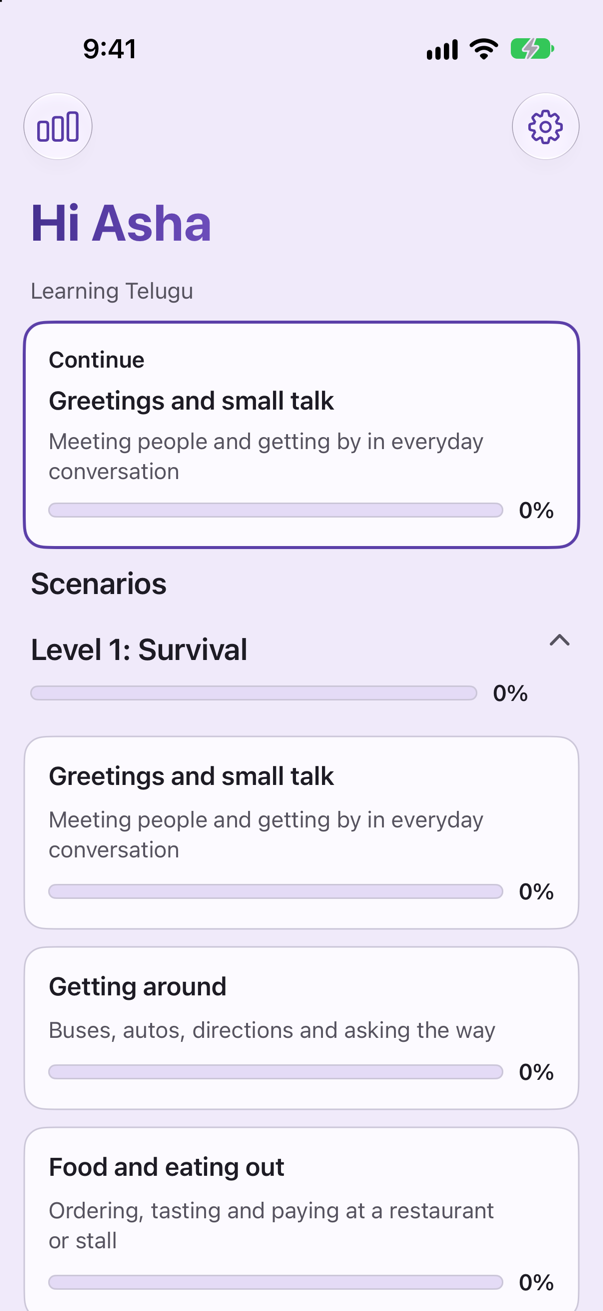
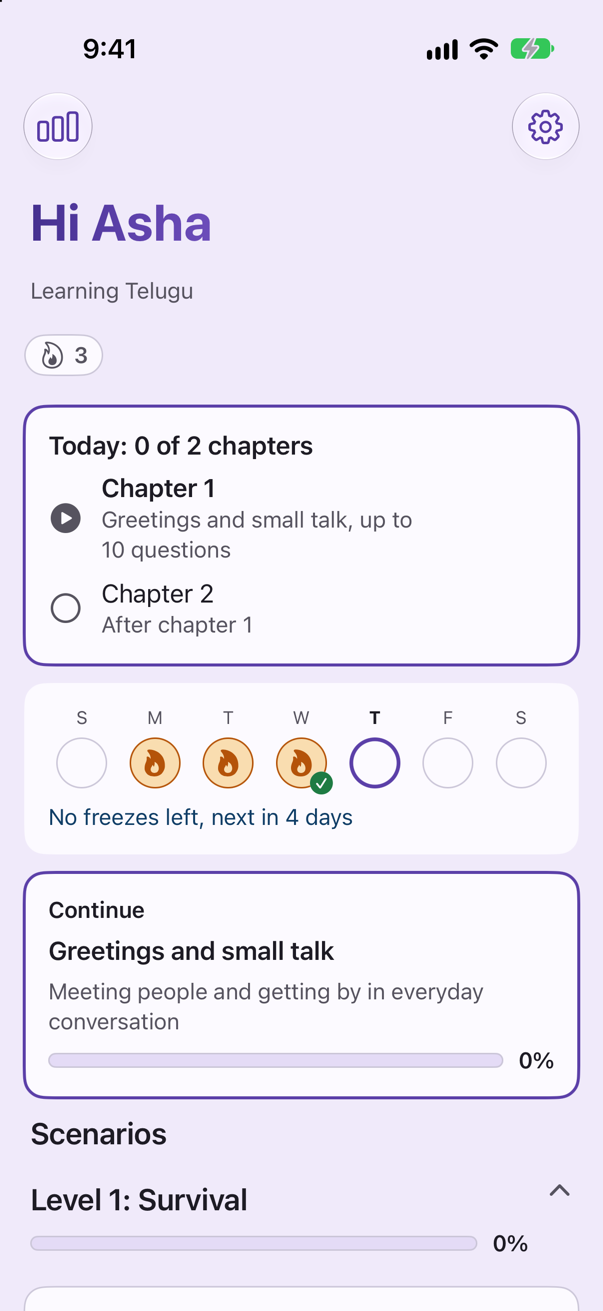
Docs: README shows daily practice; CHANGELOG with versions; rule to keep GitHub current (#44)
New screenshots from the current build (streak, Today card, streak screen, Daily practice settings, reminder prompt, Telugu Home with its own streak). README module, storage and roadmap text cover daily practice. CHANGELOG.md records v0.1.0 to v0.4.1. CLAUDE.md gets a 'Keep GitHub current' rule.

diff --git a/README.md b/README.md
@@ -7,19 +7,24 @@
 <p>
   <img src="docs/images/intro.png" width="200" alt="Intro screen: blt.ai, learn the Tamil / Telugu people actually speak">
   <img src="docs/images/language.png" width="200" alt="Language step: choose Tamil or Telugu, changeable later in Settings">
-  <img src="docs/images/home.png" width="200" alt="Home screen for the Tamil course: a continue card and Level 1 lessons with completion bars">
+  <img src="docs/images/home.png" width="200" alt="Home for the Tamil course: a 7 day streak flame, the Today card with two chapters, the week strip with a freeze left, and the lessons by level">
   <img src="docs/images/question.png" width="200" alt="Question screen: an English prompt and four romanised Tamil options">
 </p>
 <p>
   <img src="docs/images/feedback.png" width="200" alt="Feedback screen: the correct phrase with a word-by-word gloss and a note on who to say it to">
-  <img src="docs/images/home-telugu.png" width="200" alt="Home screen for the Telugu course, with its own progress">
+  <img src="docs/images/streak.png" width="200" alt="Streak screen: the day count, a practise-by deadline, longest streak, freezes, daily goal days and a month calendar">
+  <img src="docs/images/settings-daily.png" width="200" alt="Settings: the Daily practice section with the reminders switch, quiet hours and the daily goal of two chapters">
+  <img src="docs/images/reminder-prompt.png" width="200" alt="The reminder prompt: a gentle reminder before the streak lapses, at most two notifications, never in quiet hours">
+</p>
+<p>
+  <img src="docs/images/home-telugu.png" width="200" alt="Home for the Telugu course, with its own 3 day streak and no freezes left">
   <img src="docs/images/question-telugu.png" width="200" alt="Question screen in the Telugu course, with an Unreviewed draft label">
   <img src="docs/images/settings-switch.png" width="200" alt="Settings: switching language asks first and keeps each language's progress">
 </p>
 
 This is a portfolio project. It runs on a simulator or your own iPhone; it is not on the App Store.
 
-> **Where it stands.** The two-course app is built: language choice, Home grouped by level, per-language progress, lesson import, and the final-exam screen. Levels 1 and 2 are drafted for both courses (480 phrases each). Only the first 100 Tamil phrases have been checked by a native speaker; the rest, and all of Telugu, are labelled "Unreviewed draft" in the app until the native reviewers check them. The remaining six levels, each course's exam paper, and the review passes are still ahead: see [Roadmap](#roadmap), [`plan.md`](plan.md) and [`docs/COURSE_SYLLABUS.md`](docs/COURSE_SYLLABUS.md). The screenshots are from the current build.
+> **Where it stands.** The two-course app is built: language choice, Home grouped by level, per-language progress, lesson import, daily practice (streaks, freezes and local reminders) and the final-exam screen. Levels 1 and 2 are drafted for both courses (480 phrases each). Only the first 100 Tamil phrases have been checked by a native speaker; the rest, and all of Telugu, are labelled "Unreviewed draft" in the app until the native reviewers check them. The remaining six levels, each course's exam paper, and the review passes are still ahead: see [Roadmap](#roadmap), [`plan.md`](plan.md) and [`docs/COURSE_SYLLABUS.md`](docs/COURSE_SYLLABUS.md). The screenshots are from the current build; what changed in each version is in [`CHANGELOG.md`](CHANGELOG.md).
 
 ## Who it is for
 
@@ -54,10 +59,14 @@ Two courses, each with Levels 1 and 2 (24 lessons, 480 phrases), and everything 
 - **Spaced repetition.** An SM-2 scheduler decides what comes back and when. A wrong answer is due again immediately, and a phrase counts as complete only when your latest answer was correct.
 - **Shuffled sessions.** Each session samples up to ten phrases and shuffles questions and options, so you cannot pass by remembering positions.
 - **Never red.** Mistakes are shown in a neutral tone. The app is meant to feel like practice, not a test.
-- **A daily habit, on the device.** Two practice sessions ("chapters") make a day. A streak counts the days you practised inside a rolling 24-hour window, with one freeze earned per 7 streak days (at most 2), a flame on Home, a week strip and a month calendar. Two gentle local reminders (20 and 23 hours after your last session) skip quiet hours, never mention a phrase or your name, and are asked for once, after your first finished session. Each language has its own streak. No account and no network. See [`docs/DECISIONS.md`](docs/DECISIONS.md) 047.
+- **A daily habit, on the device.** A "chapter" is one practice session of up to ten questions, and two chapters make a day.
+  - **Streak.** It counts the days you practised inside a rolling 24-hour window. One freeze is earned for every 7 streak days (you can hold 2), and it is used automatically when you miss a window. A broken streak resets calmly and your longest streak is kept.
+  - **Where you see it.** A flame chip, the Today card and a week strip on Home; the flame, the new count and "Daily goal met" at the end of a session; and a streak screen with the deadline, longest streak, freezes and a month calendar. With Reduce Motion on, nothing bounces.
+  - **Reminders.** At most two local notifications, 20 and 23 hours after your last session. A reminder that would fall in quiet hours (10 pm to 8 am unless you change them) arrives 30 minutes before they start instead. The text names the streak and the language, never a phrase or your name. You are asked once, after your first finished session, and Settings is the way back in.
+  - **Per language.** Each language has its own streak and log. Reset progress clears only the language you are on. Nothing leaves the device. See [`docs/DECISIONS.md`](docs/DECISIONS.md) 047.
 - **A final exam, not yet open.** The exam screen is built (100 questions, pass mark 75, no feedback during the sitting, score-only history). It appears on Home only when a course has an exam paper, and no paper is written yet.
 - **Lessons can be updated on the phone.** Settings has an "Import lessons" action: pick lesson files from the Files app and the app validates them (all or nothing) and starts using them straight away. See below.
-- **Private by construction.** The only personal data is a display name, stored on the device. There is no account, no network code, and no analytics.
+- **Private by construction.** The only personal data is a display name, stored on the device. There is no account, no network code, and no analytics. Reminders are local notifications scheduled by one file, `LocalReminderScheduler.swift`; nothing is sent anywhere.
 
 ## How it is built
 
@@ -66,12 +75,12 @@ Swift 6 with strict concurrency, SwiftUI, iOS 27. All logic lives in a local Swi
 ```mermaid
 graph TD
     App[BLTApp: app shell and composition root] --> Features
-    Features[BLTFeatures: screens and view models] --> Session
-    Features --> Design[BLTDesign: theme and components]
+    Features[BLTFeatures: screens, view models and daily practice flow] --> Session
+    Features --> Design[BLTDesign: theme, components and streak visuals]
     Features --> ContentStore[BLTContentStore: bundled and imported lesson loading]
     Features --> Progress
     Session[BLTSession: question builder, planner, state machine] --> Catalog
-    Session --> Progress[BLTProgress: scheduler, progress and profile stores]
+    Session --> Progress[BLTProgress: scheduler, progress, profile, practice log, streak rules, reminder planning]
     ContentStore --> Catalog
     Catalog[BLTCatalog: content loader and validator] --> Core
     Progress --> Core[BLTCore: identifiers, register, outcome]
@@ -83,10 +92,10 @@ A few choices worth a look:
 
 - **Content is data, not code.** The phrases live in [`content/tamil/`](content/tamil/) and `content/telugu/` (one folder per course) as JSON and are validated when loaded. No Swift file contains Tamil text; tests use obviously fake fixtures. This is what makes a second language a content job more than a code job.
 - **"No network" is enforced, not promised.** [`scripts/check-forbidden-apis.sh`](scripts/check-forbidden-apis.sh) fails the build if networking, audio or speech APIs, network entitlements or permission strings appear in the source. [`scripts/check-binary.sh`](scripts/check-binary.sh) then inspects the compiled app for the same thing.
-- **Storage is a few small JSON files per language** (progress, exam results, imported lessons) plus one profile file, written atomically with complete file protection. A damaged file is reported to the user and never silently overwritten.
+- **Storage is a few small JSON files per language** (progress, exam results, practice log, imported lessons) plus a profile file and a device-wide practice-settings file, written atomically with complete file protection. The streak is never stored: it is computed from the practice log each time, so there is one source of truth. A damaged file is reported to the user and never silently overwritten.
 - **No dependencies.** Nothing third-party is linked.
 - **Warnings are errors**, in the package and in the test script, and SwiftLint runs in strict mode.
-- **Decisions are written down.** [`docs/DECISIONS.md`](docs/DECISIONS.md) records 46 decisions, including the ones that were later reversed and why.
+- **Decisions are written down.** [`docs/DECISIONS.md`](docs/DECISIONS.md) records 47 decisions, including the ones that were later reversed and why.
 
 ## Where the content stands
 
@@ -144,9 +153,9 @@ The app was built with Claude Code, with the author acting as product owner and 
 
 ## Roadmap
 
-**Now: two courses.** The plan is [`plan.md`](plan.md); the reasoning is decisions 038 to 046.
+**Now: two courses.** The plan is [`plan.md`](plan.md); the reasoning is decisions 038 to 047.
 
-- Done: choosing and switching language with separate progress, a Telugu course beside the Tamil one from one syllabus, Home grouped by level, duplicate-phrase checks, the exam screen and the exam paper loader, and Levels 1 and 2 drafted for both courses.
+- Done: choosing and switching language with separate progress, a Telugu course beside the Tamil one from one syllabus, Home grouped by level, duplicate-phrase checks, the exam screen and the exam paper loader, daily practice with streaks, freezes and reminders, and Levels 1 and 2 drafted for both courses.
 - Next: native review of Levels 1 and 2 in both courses (the owner for Tamil, a native Telugu speaker for Telugu), then Levels 3 to 8 one level at a time, each drafted only after the previous level is reviewed. Each course will reach 8 levels, 100 lessons and 2,000 phrases, sharing English prompts wherever that is natural.
 - Last: one 100-question exam paper per language (pass mark 75), written after that language's Level 8 is reviewed.
 
@@ -166,7 +175,8 @@ The app was built with Claude Code, with the author acting as product owner and 
 | Document | What it is |
 | --- | --- |
 | [`docs/ARCHITECTURE.md`](docs/ARCHITECTURE.md) | How the code is organised: modules, data flow, storage, and what enforces the rules. |
-| [`plan.md`](plan.md) | The current plan: two courses, Tamil and Telugu. |
+| [`CHANGELOG.md`](CHANGELOG.md) | What changed in each version, newest first. |
+| [`plan.md`](plan.md) | The current plan: two courses, Tamil and Telugu, and daily practice. |
 | [`docs/COURSE_SYLLABUS.md`](docs/COURSE_SYLLABUS.md) | The syllabus both courses follow: 8 levels, 100 lessons, exam blueprint. |
 | [`docs/REVIEWER_GUIDE.md`](docs/REVIEWER_GUIDE.md) | How a native speaker reviews a course's lessons. |
 | [`docs/MVP_PLAN.md`](docs/MVP_PLAN.md) | The v1 plan: interfaces, work breakdown, review checklist. |

diff --git a/CHANGELOG.md b/CHANGELOG.md
@@ -1,0 +1,52 @@
+# Changelog
+
+What changed in each version of blt.ai, newest first. These are project versions, not App Store versions (the app is not published; its Xcode version stays 1.0).
+
+**How versions work.** `MINOR` goes up for a feature a learner can see or a change to how the app is built (v0.4.0 is daily practice). `PATCH` goes up for a fix, a content or documentation change, or a tooling change. Every pull request that changes behaviour, a screen, storage, or the docs adds a line here under the version it ships in, and updates the README (features and screenshots) when a screen or a capability changed. The standing rule is in [`CLAUDE.md`](CLAUDE.md). Git tags (`v0.4.0` and so on) mark the merge commit of each version.
+
+## v0.4.1 (2026-10-15): README shows daily practice
+
+- README: new screenshots of the streak, the Today card, the streak screen, the Daily practice settings and the reminder prompt (Tamil and Telugu Home each with their own streak); the module, storage and roadmap text now cover daily practice.
+- This changelog, and the rule that every change updates it.
+
+## v0.4.0 (2026-10-15): Daily practice (PRs #39 to #43, DECISIONS 047)
+
+**New for the learner**
+- **Streak.** Practise within a rolling 24 hours to keep it going. One freeze is earned per 7 streak days (hold up to 2) and is used automatically on a missed window. A broken streak resets calmly and the longest streak is kept. Each language has its own.
+- **Chapters and a daily goal.** One practice session is a chapter; two make a day. Home shows a flame chip, a "Today: 1 of 2 chapters" card and this week's strip with goal marks and freezes.
+- **Session end.** The flame and the new count, "Daily goal met" in green, the week filling in, and the days to the next freeze. Bigger celebration at 7, 30, 50 and 100 days.
+- **Streak screen.** The count, a plain-words "practise by" deadline, longest streak, freezes, goal days and a month calendar. At accessibility text sizes the calendar becomes a list of marked days.
+- **Reminders.** At most two local notifications, 20 and 23 hours after your last session, moved out of quiet hours (default 10 pm to 8 am). The text never contains a phrase or your name. Asked once, after your first finished session; Settings has the switch, quiet hours and the daily goal (2 chapters, read-only for now).
+- **Reset progress** also clears that language's streak and cancels its reminders.
+
+**Under the hood**
+- New practice log (`courses/<language>/practice.json`) and device-wide practice settings; the streak is computed from the log, never stored.
+- `StreakCalculator` and `ReminderPlanner` are pure and heavily tested (23-hour cadence, 25-hour gaps with and without a freeze, daylight saving, time zones, quiet-hours cases).
+- `LocalReminderScheduler.swift` is the only file that imports `UserNotifications`. No network, no new dependency.
+- UI tests for the streak, the session end, the Settings section and the prompt, plus accessibility audits at the default and the largest text size. Home's lesson list is built eagerly so the Dynamic Type audit can see every row.
+
+**Known**
+- Not yet seen on a real iPhone: notification delivery at +20 h and +23 h, the system permission dialog, file protection on `practice.json`.
+- On a fall-back night (25 hours between "the same time tomorrow") a streak breaks unless a freeze is held.
+- On the iPhone 17 simulator the two name-entry accessibility audits fail ("keyboard did not dismiss"); they pass on iPhone 17e and fail the same way on older code.
+- The two quiet-hours pickers in Settings show only their times; the "start" and "end" words are in the VoiceOver label but not on screen.
+
+## v0.3.0 (2026-10-11 to 2026-10-12): Exam, Levels 1 and 2 for both courses (PRs #23 to #38)
+
+- **Content.** Tamil Level 1 completed and Level 2 drafted; Telugu Levels 1 and 2 drafted (24 lessons, 480 phrases each, all unreviewed except the first five Tamil lessons). Tamil-script spelling added for lessons 1 to 5.
+- **Final exam.** The engine, score-only result storage, the Home entry and sitting screens, and the exam paper file format and loader (DECISIONS 041, 046). No paper is written yet, so the exam does not appear.
+- **Tests and CI.** UI tests run with animations off; the UI job is skipped on pull requests that change no app code; UI tests run on one simulator (DECISIONS 045).
+- **Docs.** README with new screenshots, reviewer guide, style notes for both languages.
+
+## v0.2.0 (2026-10-10 to 2026-10-11): Two courses, Tamil and Telugu (PRs #15 to #26, DECISIONS 042 to 044)
+
+- **One app for a couple.** After the name, choose Tamil or Telugu; switch any time in Settings with each language's progress kept. Reset clears only the language you are on.
+- **Home grouped by level**, with a Continue suggestion; levels are ordered but not locked.
+- **One lesson format for both languages** (`language`, `word`, `script`), a content editor and a drafting aid that check duplicates, and per-language storage and import.
+
+## v0.1.0 (2026-10-07 to 2026-10-10): Tamil course for a Telugu speaker (PRs #1 to #13)
+
+- The first app: text-only multiple choice for colloquial Tamil, five lessons and 100 phrases, all reviewed by a native speaker.
+- Feedback with a word-by-word gloss and a register note, three outcomes (correct, right sentence wrong register, wrong), SM-2 spaced repetition, shuffled sessions, never red.
+- Lessons can be imported from the Files app. No account, no network, no analytics, enforced by scripts.
+- The course plan (8 levels, 100 lessons, a final exam), CI on GitHub's `xcode-27` runner, and the module architecture.

diff --git a/CLAUDE.md b/CLAUDE.md
@@ -61,6 +61,8 @@ Guessing wastes more of the human's time than asking does. He is reviewing for s
 
 **Definition of done:** acceptance criteria met, tests written and passing, `swiftlint --strict` clean, build has zero warnings, and a one-paragraph summary of what changed and what the human should verify on device.
 
+**Keep GitHub current.** Any change a learner can see or that changes how the app is built or stored (front end or back end) is not done until the repository says so, in the same pull request: add a line to `CHANGELOG.md` under the version it ships in (`MINOR` for a feature or structural change, `PATCH` for a fix, content, docs or tooling change); update `README.md` (the feature list, the module and storage text, the roadmap, and the screenshots when a screen changed: retake them from a current build, never edit old ones); update `docs/ARCHITECTURE.md` when structure or storage changed, `docs/DECISIONS.md` when a decision was made, and `docs/HANDOFF.md` and `progress.md`. After the owner merges, tag the merge commit (`vX.Y.Z`) only when the owner says so. If a screenshot cannot be retaken, say so in the pull request rather than leaving a stale one.
+
 ## What not to do
 
 - Do not mark a task complete when part of it is unverified. Say which part.

diff --git a/docs/HANDOFF.md b/docs/HANDOFF.md
@@ -15,6 +15,7 @@ Read this first in a new session, then `CLAUDE.md`. Last updated 2026-10-12 (Lev
 
 **Owner preferences to keep honouring**
 - TL;DR first (what worked, what failed, what you need), plain language, short.
+- **Every change updates GitHub in the same PR**: `CHANGELOG.md` (versioned), `README.md` (features and fresh screenshots), ARCHITECTURE, DECISIONS, HANDOFF (rule in `CLAUDE.md`, "Keep GitHub current").
 - **Never archive any of the owner's sessions without asking** (auto-archive on PR close is turned off).
 - Ask before overriding anything the owner set in Xcode or the docs. Do NOT commit `BLTApp/BLTApp.xcodeproj/project.pbxproj` (it carries the owner's local signing team id; an uncommitted change in the owner's clone). Stage explicit paths only.
 - Remote Control is on for the working sessions. If a session resumes after a usage limit, the owner wants model effort **High** (a session cannot change its own effort; ask the owner or use the picker).
